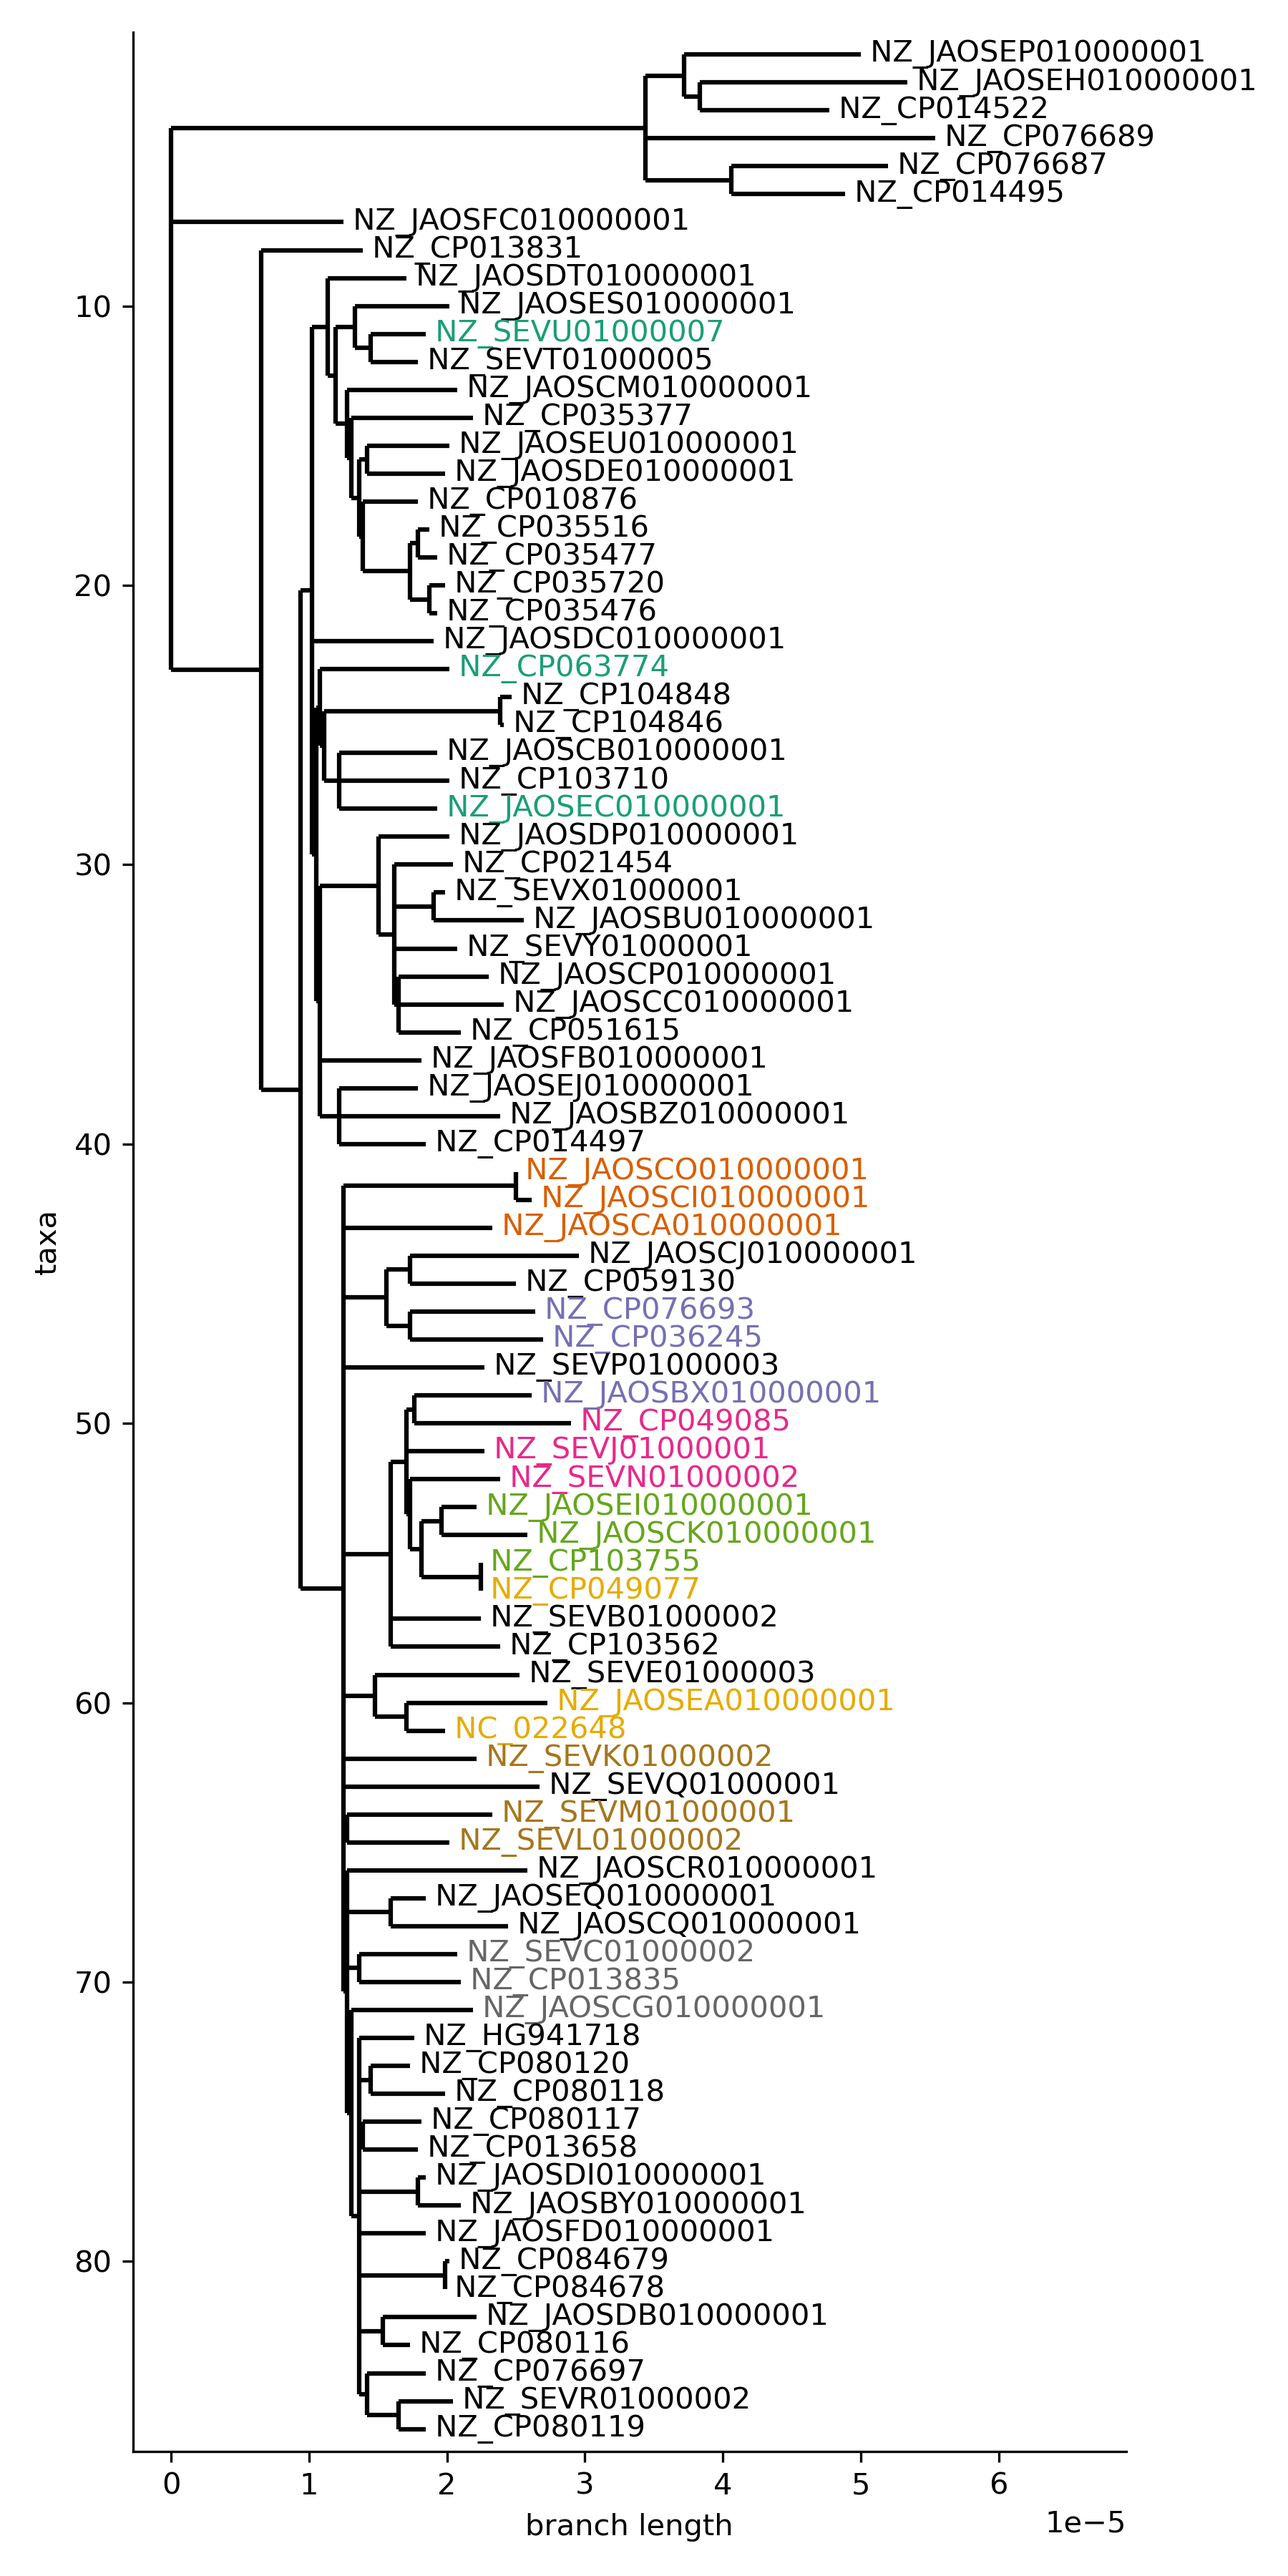
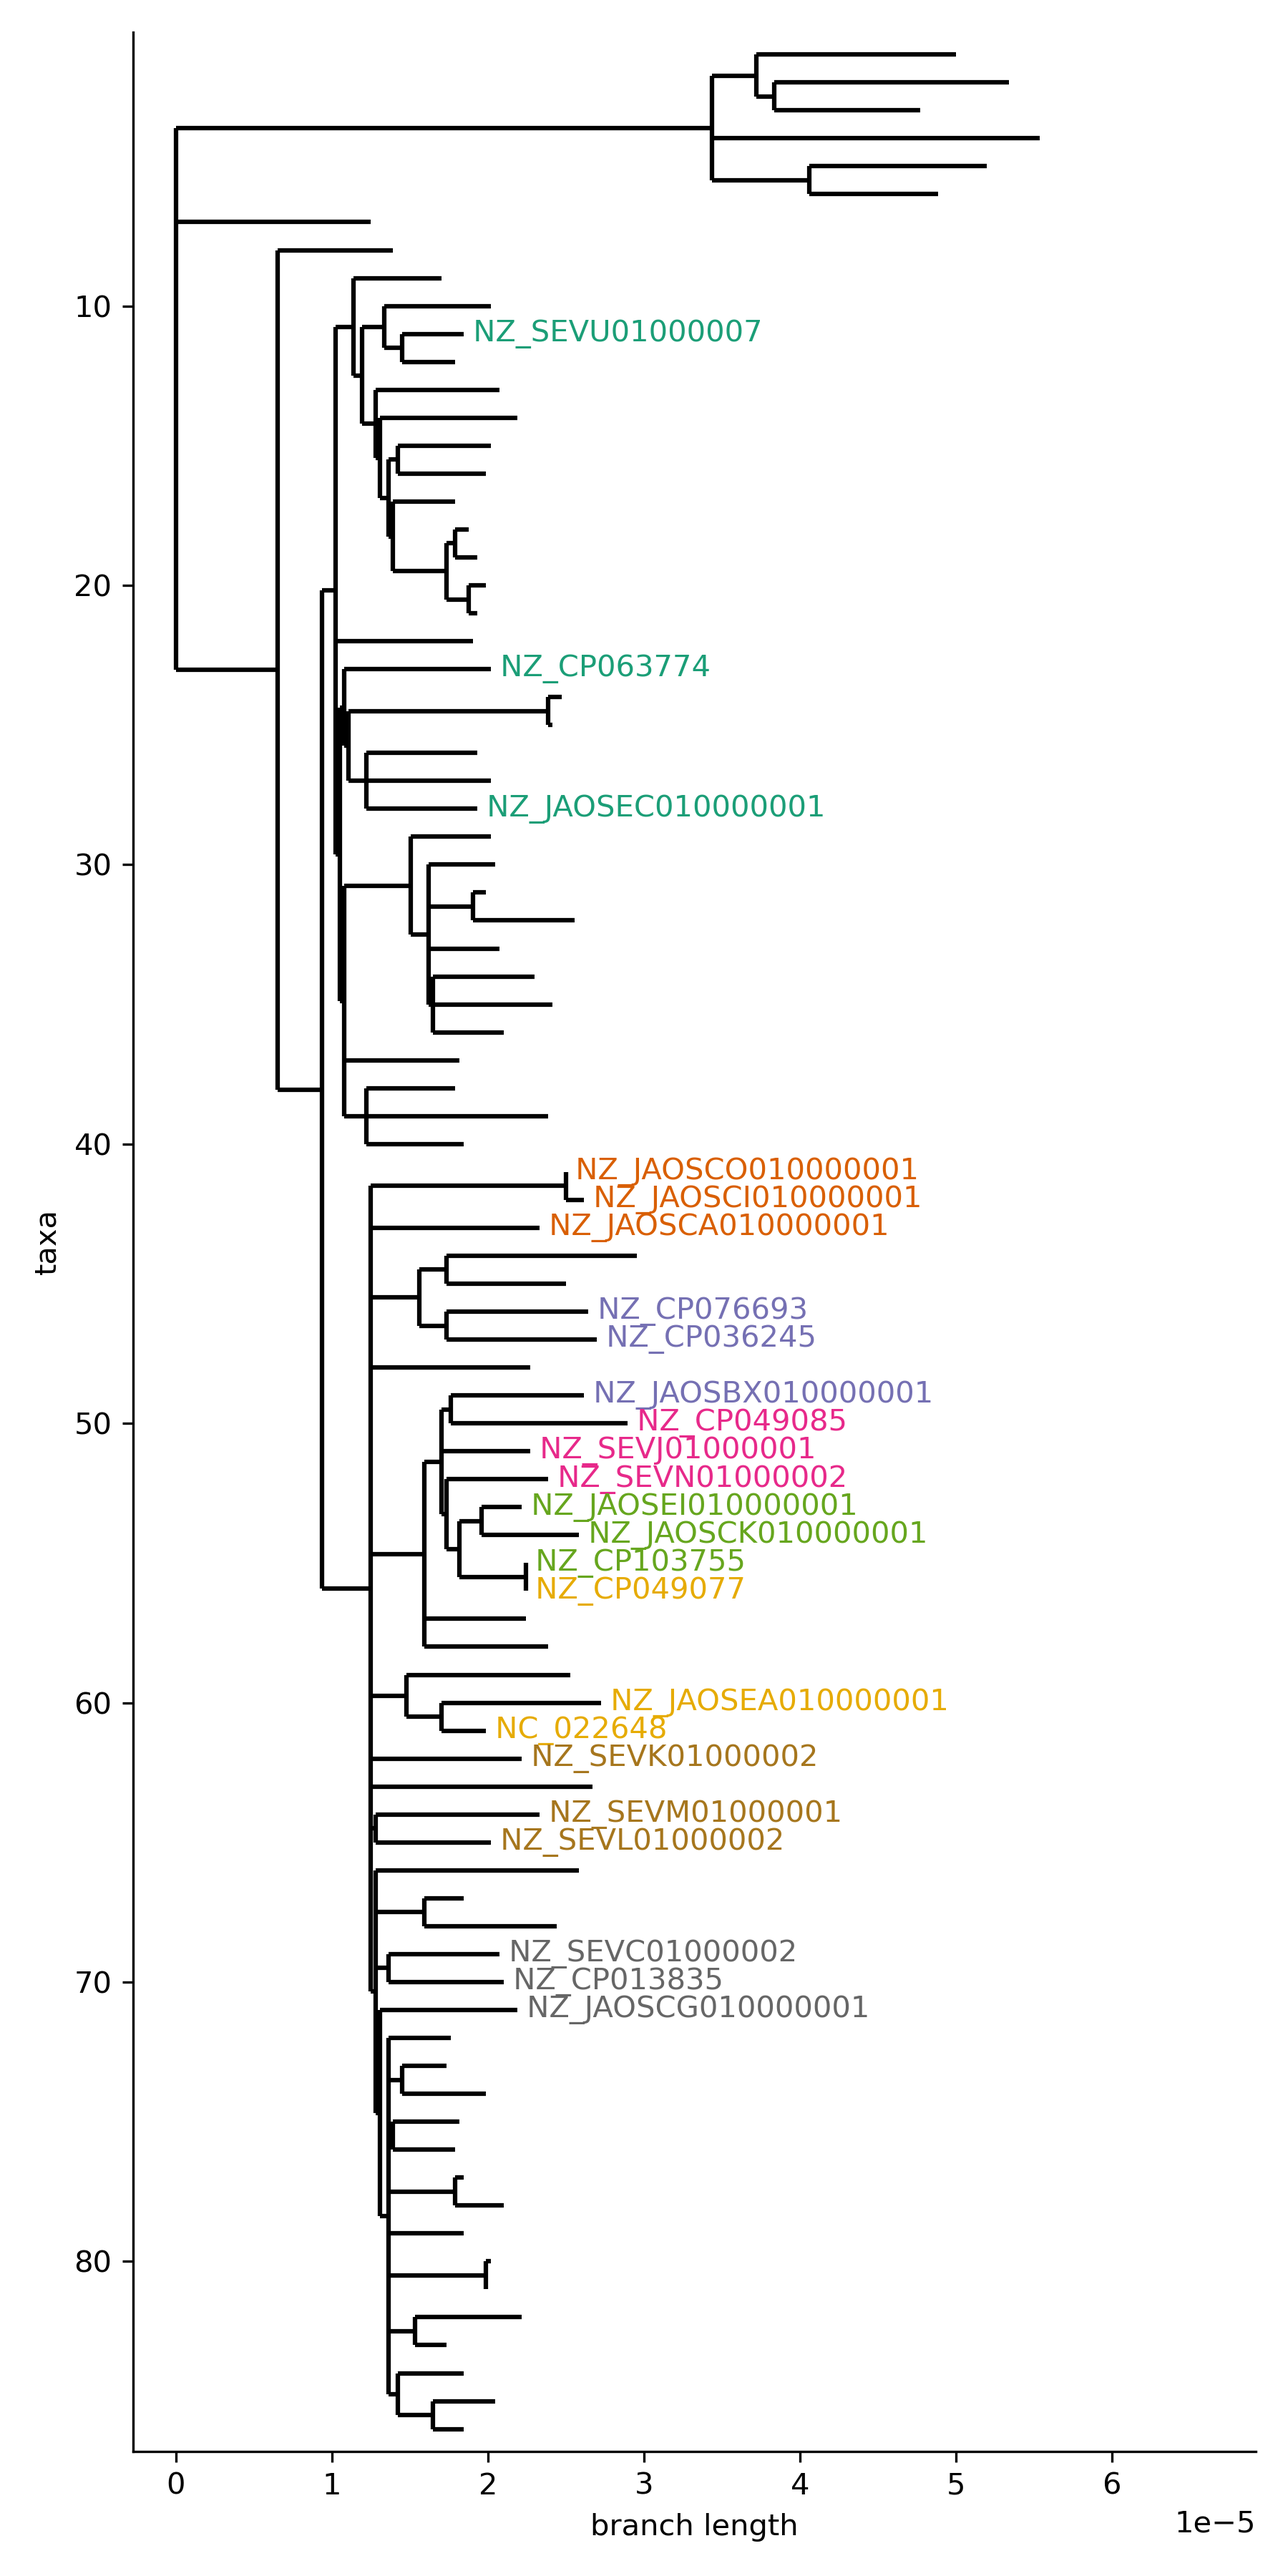
extended tutorial part 1

Changed region(s): [[0.1867, 0.0, 0.7156, 0.9956], [0.6533, 0.0, 0.9333, 0.0933], [0.1244, 0.0311, 0.1556, 0.2489]]

diff --git a/scripts/assign_leaves_color.py b/scripts/assign_leaves_color.py
@@ -1,0 +1,68 @@
+import argparse
+import numpy as np
+import pandas as pd
+import matplotlib as mpl
+import matplotlib.pyplot as plt
+from Bio import Phylo
+
+
+def parse_args():
+    parser = argparse.ArgumentParser()
+    parser.add_argument("--tree", type=str, required=True)
+    parser.add_argument("--paf", type=str, required=True)
+    parser.add_argument("--color_csv", type=str, required=True)
+    parser.add_argument("--fig", type=str, required=True)
+    return parser.parse_args()
+
+
+def isolates_from_paf(paf_file):
+    """return all isolates containing a match from paf file"""
+    paf = pd.read_csv(paf_file, sep="\t", header=None)
+    return paf[0].unique()
+
+
+def color_generator(N):
+    cmap = plt.get_cmap("Dark2")
+    for x in np.linspace(0, 1, N):
+        yield cmap(x)
+
+
+def plot_tree(tree, selected, colors, fig_name):
+    """plot tree coloring only selected leaves"""
+
+    fig, ax = plt.subplots(1, 1, figsize=(5, 12))
+    Phylo.draw(
+        tree,
+        label_func=lambda l: l.name if l.name in selected else "",
+        label_colors=colors,
+        axes=ax,
+        do_show=False,
+    )
+    ax.spines["top"].set_visible(False)
+    ax.spines["right"].set_visible(False)
+    plt.tight_layout()
+    plt.savefig(fig_name, facecolor="white", dpi=150)
+    plt.close(fig)
+
+
+if __name__ == "__main__":
+
+    args = parse_args()
+
+    # load newick tree
+    tree = Phylo.read(args.tree, "newick")
+
+    # get list of isolates containing the bla gene
+    selected = isolates_from_paf(args.paf)
+
+    # generate dictionary of colors for leaves
+    cg = color_generator(len(selected))
+    colors = {l.name: next(cg) for l in tree.get_terminals() if l.name in selected}
+
+    # plot the tree, with selected leaves in corresponding colors
+    plot_tree(tree, selected, colors, args.fig)
+
+    # save colors to csv file
+    selected_colors = {l: mpl.colors.to_hex(v) for l, v in colors.items()}
+    cdf = pd.Series(selected_colors, name="color")
+    cdf.to_csv(args.color_csv, index_label="isolate")

diff --git a/notebooks/tree.py b/notebooks/tree.py
@@ -37,7 +37,7 @@ plt.figure(figsize=(6, 12))
 ax = plt.gca()
 Phylo.draw(
     tree,
-    label_func=lambda x: x.name if x.name in leaves else "",
+    label_func=lambda x: x.name if x.name in selected else "",
     do_show=False,
     axes=ax,
     label_colors={n.name: colors[n.name] for n in tree.get_terminals()},

diff --git a/notes/part_1.md b/notes/part_1.md
@@ -20,17 +20,23 @@ NZ_JAOSEC010000001    2
 NZ_JAOSCG010000001    2
 ```
 
-We then use the script `script/extract_matches.py` to extract a ~10 kbp window (5kbp upstream and 5kbp downstream) around the match (rule `extract_window` with `w=5000`).
-```bash
-python3 scripts/extract_matches.py \
-    --in_fa data/ST131_fa/* \
-    --paf results/bla15/map.paf \
-    --window 5000 \
-    --length 400 \
-    --out results/bla15/extracted_window_5000.fa
-```
+## step 2: core-genome distance between isolates
 
-## step 2: simple gene alignment
+As a preliminary step we evaluate the core-genome distance 
+
+To
+
+```bash
+python3 scripts/assign_leaves_color.py \
+    --paf {input.paf} \
+    --tree {input.tree} \
+    --fig {output.fig} \
+    --color_csv {output.color}
+```
+![coretree](assets/bla15_core_tree.png){: style="width=100px;"}
+
+
+## step 3: simple gene alignment
 
 As a first preliminary step in the analysis we can generate an alignment from the mapping to check the quality of the detected matches, and see if we can extract phylogenetic information from the alignment.
 
@@ -51,9 +57,21 @@ mafft --auto --adjustdirection \
 ```
 
 Inspection of this alignment reveals that these matches are all identical and no phylogenetic information can be extracted.
-![alignment](../notebooks/figs/bla_alignment.png)
+![alignment](assets/bla_alignment.png)
 
-## step 3: building a pangenome graph of the surrounding region
+## step 4: building a pangenome graph of the surrounding region
+
+
+We then use the script `script/extract_matches.py` to extract a ~10 kbp window (5kbp upstream and 5kbp downstream) around the match (rule `extract_window` with `w=5000`).
+```bash
+python3 scripts/extract_matches.py \
+    --in_fa data/ST131_fa/* \
+    --paf results/bla15/map.paf \
+    --window 5000 \
+    --length 400 \
+    --out results/bla15/extracted_window_5000.fa
+```
+
 
 We then build a pangraph using the sequences of the regions surrounding the bla gene (rule `build_window_pangraph`):
 ```bash
@@ -63,4 +81,5 @@ pangraph build \
     > results/bla15/pangraph_window.json 
 ```
 
-The aim is to use the structural diversity 
+The aim is to use the structural diversity around this region to visualize relatedness between different genes.
+
